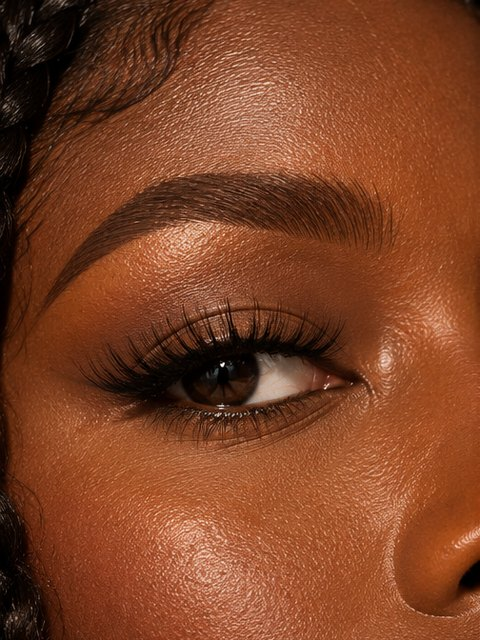
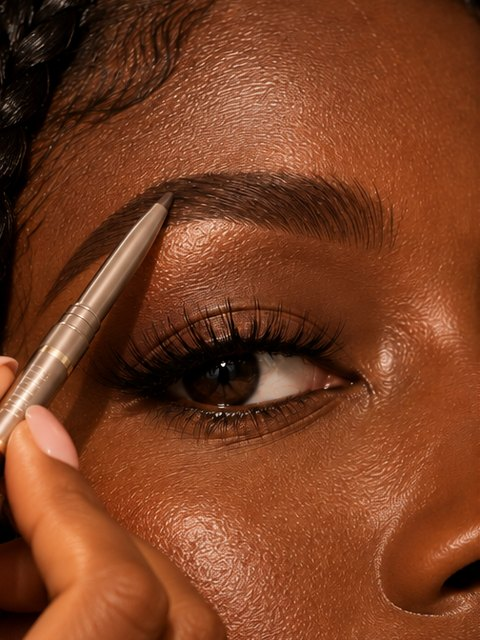
All brow models holding the pencil

diff --git a/index.html b/index.html
@@ -972,7 +972,7 @@ function looksHTML(cat){
       return `<button class="ltile" data-open="${id}" data-shade="${esc(sh)}" data-tone="${tone}" aria-label="${esc(p.name)} in ${esc(sh)}" style="background-image:url(lips-${id}-${tone}.jpg);background-size:100% ${p.shades.length*100}%;background-position:0 ${i/(p.shades.length-1)*100}%"><span><small>${esc(p.name.replace(/ Lipstick$/,""))}</small>${esc(sh)}</span></button>`; }).join("");
     return `<div class="looks reveal"><div class="lbl caps"><b>See them on</b><span>Swipe &rarr;</span></div><div class="lrow">${tiles}</div></div>`;
   }
-  if(BANDS[cat]) return `<div class="looks reveal"><div class="lbl caps"><b>See it on</b><span>Swipe &rarr;</span></div><div class="lrow">${BANDS[cat].map(([img,id,sh,nm])=>`<button class="ltile tall" data-open="${id}" data-shade="${esc(sh)}" aria-label="${esc(nm)} in ${esc(sh)}" style="background-image:url(${img}?v=2);background-size:cover;background-position:center"><span><small>${esc(nm)}</small>${esc(sh)}</span></button>`).join("")}</div></div>`;
+  if(BANDS[cat]) return `<div class="looks reveal"><div class="lbl caps"><b>See it on</b><span>Swipe &rarr;</span></div><div class="lrow">${BANDS[cat].map(([img,id,sh,nm])=>`<button class="ltile tall" data-open="${id}" data-shade="${esc(sh)}" aria-label="${esc(nm)} in ${esc(sh)}" style="background-image:url(${img}?v=3);background-size:cover;background-position:center"><span><small>${esc(nm)}</small>${esc(sh)}</span></button>`).join("")}</div></div>`;
   return "";
 }
 function visual(p){
